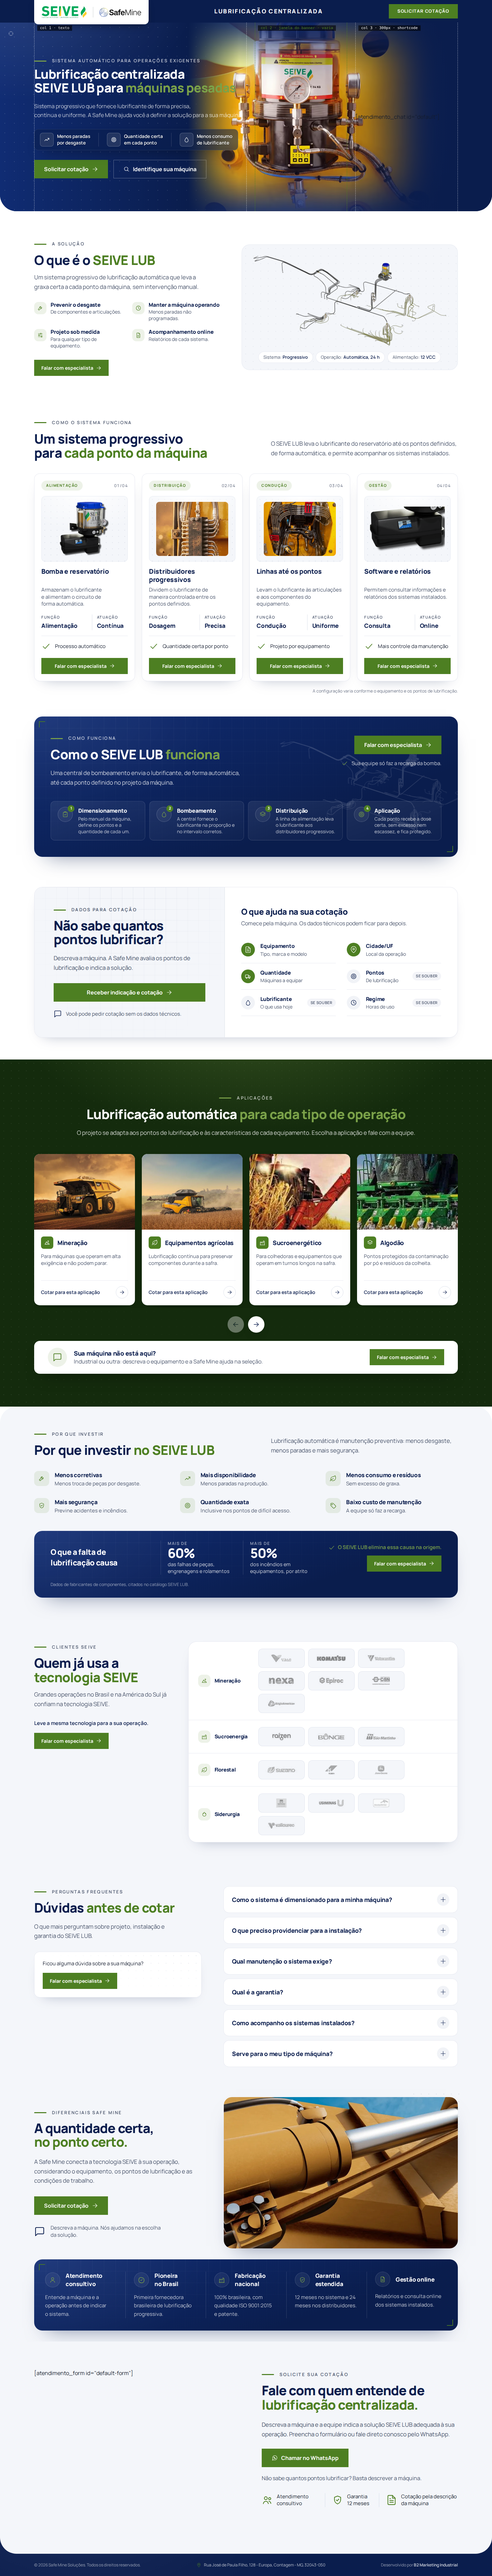
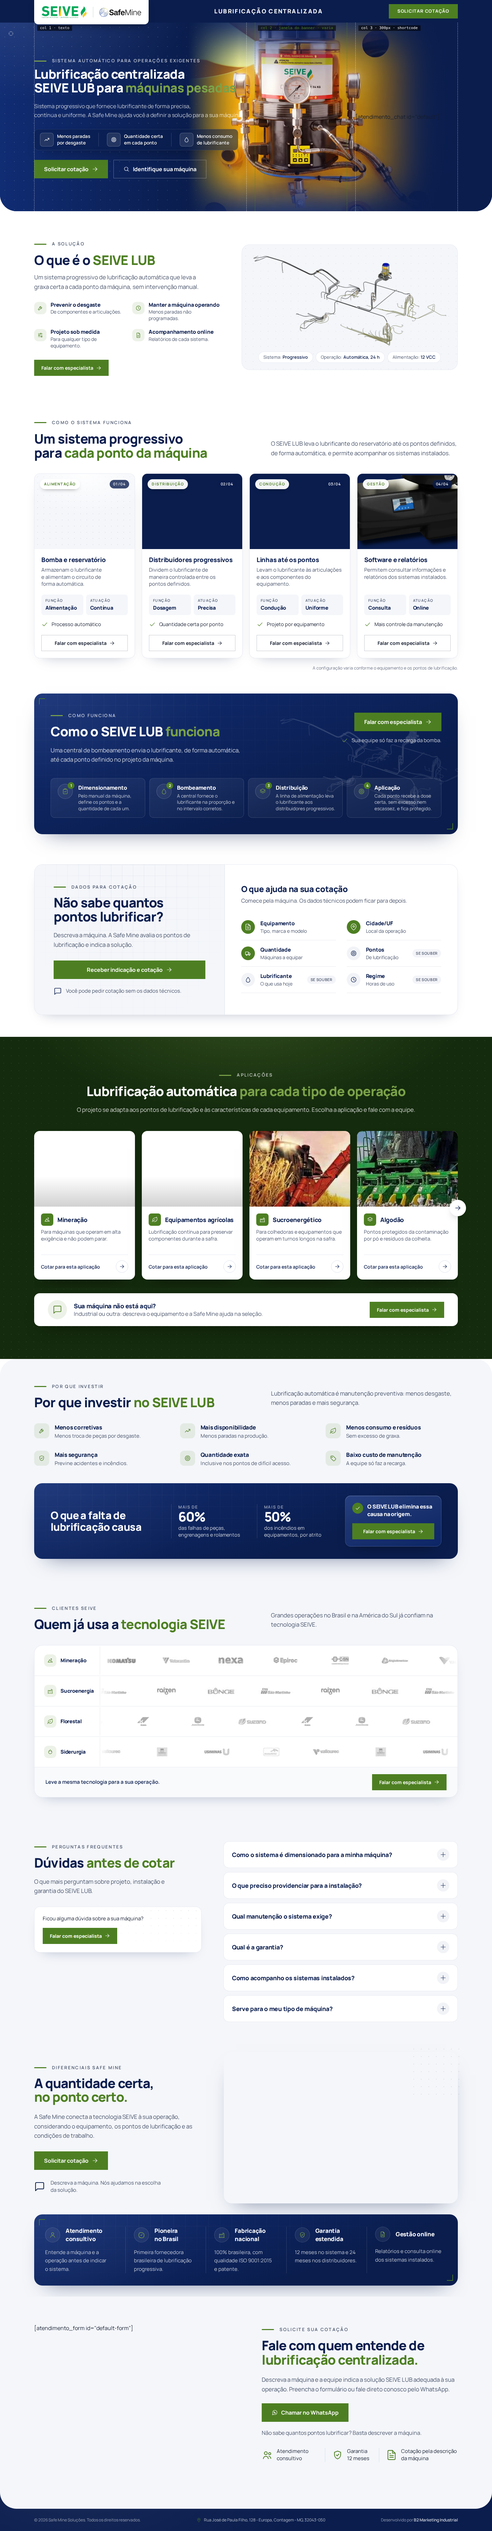
style: cards de componentes, clientes em carrossel por setor, vidro na faixa
- linhas: foto ocupando o topo do card (recorte centrado sobre a placa),
  rótulo e índice sobre a foto, specs em chips e botão contornado.
- clientes: uma linha por setor, cada uma com carrossel próprio (direções
  alternadas), CTA no pé.
- beneficios: título da faixa maior, sem a linha de fonte; resposta e CTA
  num cartão de vidro (backdrop blur).
- aplicacoes: setas nas laterais do carrossel; menos espaço sob a descrição.

diff --git a/src/data/sections/linhas.ts b/src/data/sections/linhas.ts
@@ -23,6 +23,8 @@ export interface ProductLine {
   title: string
   description: string
   photo: Photo
+  /** `contain` para recorte com fundo transparente; `cover` (padrão) para foto. */
+  fit?: 'cover' | 'contain'
   features: readonly [string, string, string]
   /** Exatamente um card escuro por grid. Informe sempre (true/false). */
   dark: boolean
@@ -44,6 +46,7 @@ export const productLines = {
       title: 'Bomba e reservatório',
       description: 'Armazenam o lubrificante e alimentam o circuito de forma automática.',
       photo: { src: linha1, alt: 'Bomba SEIVE LUB com reservatório transparente' },
+      fit: 'contain',
       features: ['Alimentação', 'Contínua', 'Processo automático'],
       dark: false,
     },

diff --git a/src/data/sections/beneficios.ts b/src/data/sections/beneficios.ts
@@ -82,7 +82,6 @@ export const benefits = {
     ],
     /** Fecho da faixa: o SEIVE LUB atua nessa causa. */
     answer: 'O SEIVE LUB elimina essa causa na origem.',
-    source: 'Dados de fabricantes de componentes, citados no catálogo SEIVE LUB.',
   },
 } as const satisfies {
   eyebrow: string
@@ -90,5 +89,5 @@ export const benefits = {
   titleHighlight: string
   text: string
   items: readonly Benefit[]
-  stats: { title: string; items: readonly [Stat, Stat]; answer: string; source: string }
+  stats: { title: string; items: readonly [Stat, Stat]; answer: string }
 }
